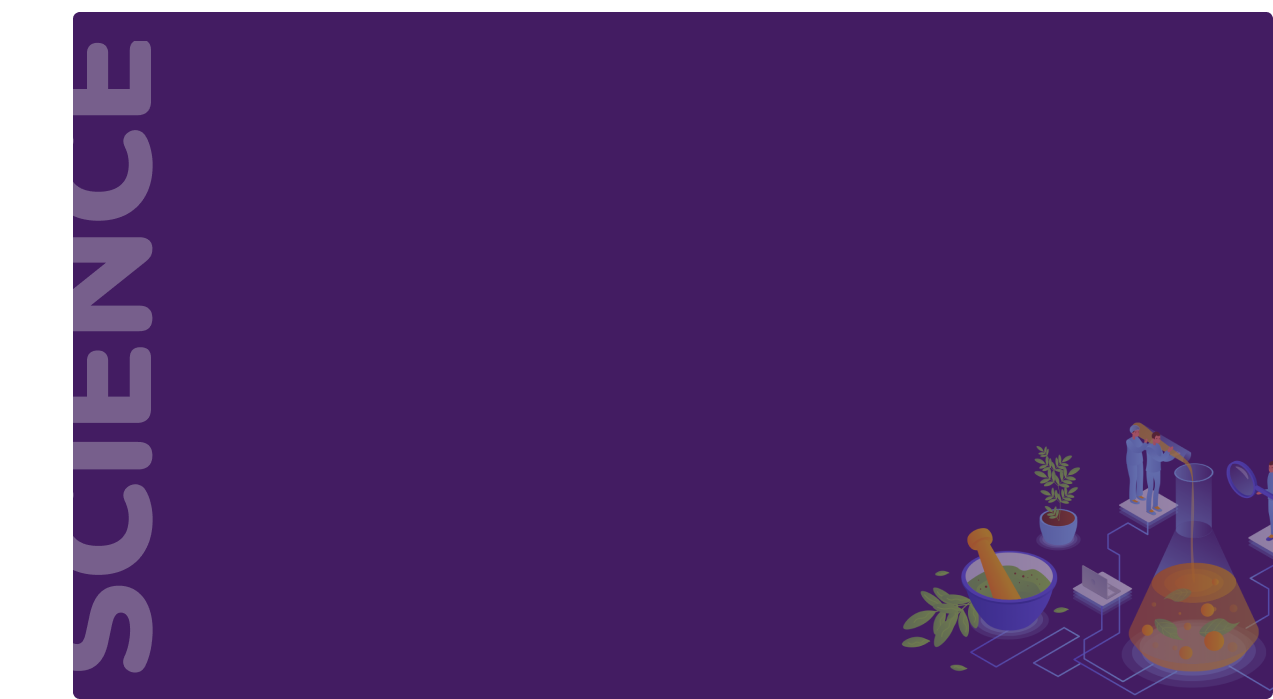
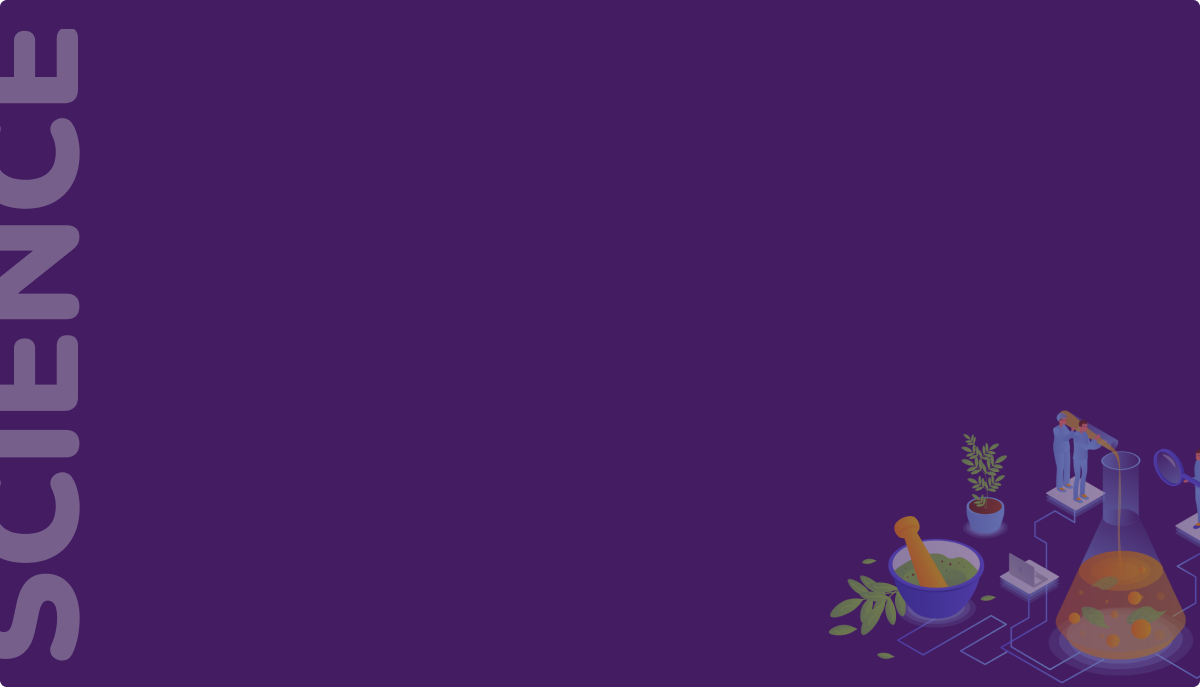
commit trivia page update

Changed region(s): [[0.0, 0.0, 1.0, 1.0], [0.6783, 0.5808, 1.0, 1.0]]

diff --git a/client/src/trivia_science.html b/client/src/trivia_science.html
@@ -87,16 +87,16 @@
 
   <!-- Trivia -->
     <section class="colored-section" id="science_part">
-        <div class="container">
+        <div class="containter-fluide quiz-science quiz">
             <h2 class="question">1. Dingos are wild dogs from which country?</h2>
-            <button class="answers-a btn">South Africa</button>
-            <button class="answers-b btn">Australia</button>
-            <button class="answers-c btn">China</button>
-            <button class="answers-d btn">New Zealand</button>
-            <img src="assets/science_qb.png" alt="">
+            <button class="answers-a btn col-6">South Africa</button>
+            <button class="answers-b btn col-6">Australia</button>
+            <button class="answers-c btn col-6">China</button>
+            <button class="answers-d btn col-6">New Zealand</button>
         </div>
-
-
+        
+        <!-- <img class="quiz-bk" src="assets/science_qb.png" alt="quiz-bk"> -->
+      
     </section>
 
    <!-- Footer -->

diff --git a/client/src/trivia.html b/client/src/trivia.html
@@ -65,10 +65,10 @@
 
           <div class="collapse navbar-collapse" id="navbarNav">
             <ul class="navbar-nav ml-auto">
-              <li class="nav-item active">
+              <li class="nav-item">
                 <a class="nav-link" href="index.html">About</a>
               </li>
-              <li class="nav-item">
+              <li class="nav-item active">
                 <a class="nav-link" href="trivia.html">Trivia</a>
               </li>
               <li class="nav-item">
@@ -87,7 +87,7 @@
 
   <!-- Trivia -->
     <section class="colored-section" id="Category">
-         <div class="category-btn row">
+         <div class="category-btn row no-gutters">
                 <a class="category-item col-3" href="trivia_science.html">
                     <img src="assets/science_btn.png" alt="science_btn">
                 </a>

diff --git a/client/src/index.html b/client/src/index.html
@@ -122,10 +122,11 @@
     </footer> 
 
     <!-- Navigation Active-->
-    <script>
+    <!-- <script>
       $(document).ready(function() {
-          $( ".nav-item" ).bind( "click", function(event) {
-              event.preventDefault();
+          $( ".nav-item" ).on( "click", function(event) {
+            console.log("test");
+              // event.preventDefault();
               var clickedItem = $( this );
               $( ".nav-item" ).each( function() {
                   $( this ).removeClass( "active" );
@@ -133,7 +134,7 @@
               clickedItem.addClass( "active" );
           });
       });
-      </script>
+      </script> -->
       
   </body>
 </html>

diff --git a/client/src/index.css b/client/src/index.css
@@ -135,15 +135,30 @@ footer {
 }
 
 /* Trivia */
-/* li {
-  list-style: none;
-  margin: 0;
+
+#science_part {
+  background-image: url("assets/science_qb.png");
+
+  background-repeat: no-repeat;
+  background-attachment: fixed;
+  background-position: center;
   padding: 0;
+  margin: 1rem 0;
+  max-width: 100%;
+  height: 42.375rem;
 }
-img {
-  max-width: 300px;
-  width: 100%;
-} */
+
+.quiz {
+  padding-top: 5rem;
+}
+
+.question {
+  margin-bottom: 1rem;
+}
+.btn {
+  margin-bottom: 1rem;
+}
+
 /* Extra Responsive Content*/
 
 @media (max-width: 1028px) {
